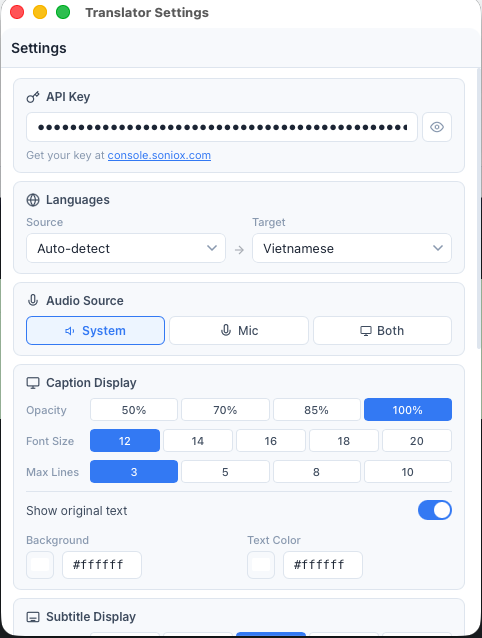
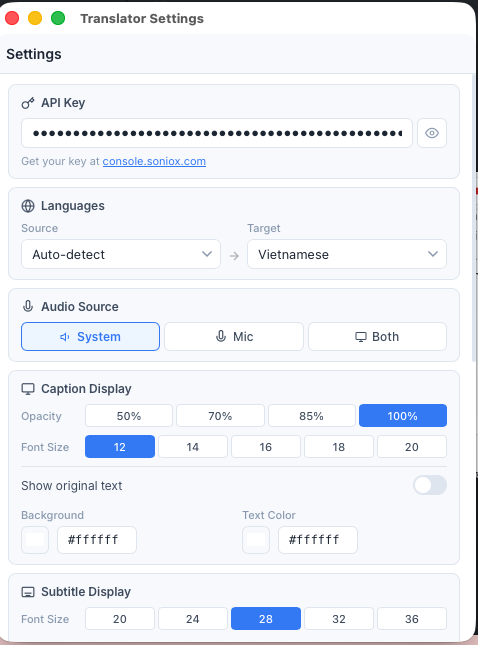
feat: remove max lines setting and update transcript handling for improved scrolling

diff --git a/src/components/settings-view.tsx b/src/components/settings-view.tsx
@@ -32,7 +32,6 @@ export function SettingsView({ settings, onSave, onToast }: SettingsViewProps) {
   const [audioSource, setAudioSource] = useState("system");
   const [opacity, setOpacity] = useState(85);
   const [fontSize, setFontSize] = useState(16);
-  const [maxLines, setMaxLines] = useState(5);
   const [showOriginal, setShowOriginal] = useState(true);
   const [bgColor, setBgColor] = useState("#1a1a2e");
   const [textColor, setTextColor] = useState("#ffffff");
@@ -54,7 +53,6 @@ export function SettingsView({ settings, onSave, onToast }: SettingsViewProps) {
     setAudioSource(settings.audio_source || "system");
     setOpacity(Math.round((settings.overlay_opacity || 0.85) * 100));
     setFontSize(settings.font_size || 16);
-    setMaxLines(settings.max_lines || 5);
     setShowOriginal(settings.show_original !== false);
     setBgColor(settings.background_color || "#1a1a2e");
     setTextColor(settings.text_color || "#ffffff");
@@ -77,7 +75,6 @@ export function SettingsView({ settings, onSave, onToast }: SettingsViewProps) {
       audio_source: audioSource,
       overlay_opacity: opacity / 100,
       font_size: fontSize,
-      max_lines: maxLines,
       show_original: showOriginal,
       background_color: bgColor,
       text_color: textColor,
@@ -235,16 +232,6 @@ export function SettingsView({ settings, onSave, onToast }: SettingsViewProps) {
               <div className="s-chip-row">
                 {[12, 14, 16, 18, 20].map((o) => (
                   <button key={o} className={`s-chip ${fontSize === o ? "s-chip--active" : ""}`} onClick={() => setFontSize(o)}>
-                    {o}
-                  </button>
-                ))}
-              </div>
-            </div>
-            <div className="s-display-item">
-              <span className="s-field-label">Max Lines</span>
-              <div className="s-chip-row">
-                {[3, 5, 8, 10].map((o) => (
-                  <button key={o} className={`s-chip ${maxLines === o ? "s-chip--active" : ""}`} onClick={() => setMaxLines(o)}>
                     {o}
                   </button>
                 ))}

diff --git a/src/components/transcript-display.tsx b/src/components/transcript-display.tsx
@@ -35,7 +35,6 @@ interface TranscriptDisplayProps {
   segments: TranscriptSegment[];
   provisionalText: string;
   fontSize: number;
-  maxLines: number;
   showOriginal: boolean;
   isListening: boolean;
   aiEnabled?: boolean;
@@ -46,7 +45,6 @@ export function TranscriptDisplay({
   segments,
   provisionalText,
   fontSize,
-  maxLines,
   showOriginal,
   isListening,
   aiEnabled,
@@ -146,8 +144,7 @@ export function TranscriptDisplay({
       );
     }
 
-    const allBlocks = buildSpeakerBlocks(segments);
-    const blocks = maxLines > 0 ? allBlocks.slice(-maxLines) : allBlocks;
+    const blocks = buildSpeakerBlocks(segments);
 
     return (
       <div ref={scrollRef} className="transcript-scroll">

diff --git a/src/components/overlay-view.tsx b/src/components/overlay-view.tsx
@@ -14,7 +14,6 @@ interface OverlayViewProps {
   provisionalText: string;
   fontSize: number;
   opacity: number;
-  maxLines: number;
   showOriginal: boolean;
   backgroundColor: string;
   textColor: string;
@@ -45,7 +44,6 @@ export function OverlayView({
   provisionalText,
   fontSize,
   opacity,
-  maxLines,
   showOriginal,
   backgroundColor,
   textColor,
@@ -89,7 +87,6 @@ export function OverlayView({
           segments={segments}
           provisionalText={provisionalText}
           fontSize={fontSize}
-          maxLines={maxLines}
           showOriginal={showOriginal}
           isListening={isRunning && segments.length === 0 && !provisionalText}
           aiEnabled={aiEnabled}

diff --git a/src/types/settings.ts b/src/types/settings.ts
@@ -10,7 +10,6 @@ export interface Settings {
   audio_source: string;
   overlay_opacity: number;
   font_size: number;
-  max_lines: number;
   show_original: boolean;
   custom_context: CustomContext | null;
   subtitle_mode: boolean;
@@ -32,7 +31,6 @@ export const DEFAULT_SETTINGS: Settings = {
   audio_source: "system",
   overlay_opacity: 0.85,
   font_size: 16,
-  max_lines: 5,
   show_original: true,
   custom_context: null,
   subtitle_mode: false,

diff --git a/src/App.tsx b/src/App.tsx
@@ -261,7 +261,6 @@ export default function App() {
           provisionalText={soniox.provisionalText}
           fontSize={settings.font_size}
           opacity={settings.overlay_opacity}
-          maxLines={settings.max_lines}
           showOriginal={settings.show_original}
           backgroundColor={settings.background_color}
           textColor={settings.text_color}

diff --git a/src/caption-app.tsx b/src/caption-app.tsx
@@ -306,7 +306,6 @@ export function CaptionApp() {
         provisionalText={soniox.provisionalText}
         fontSize={settings.font_size}
         opacity={settings.overlay_opacity}
-        maxLines={settings.max_lines}
         showOriginal={settings.show_original}
         backgroundColor={settings.background_color}
         textColor={settings.text_color}

diff --git a/README.md b/README.md
@@ -31,7 +31,7 @@ Real-time speech translation app for macOS. Captures system audio or microphone 
 - Draggable toolbar with playback controls
 - Customizable font size, opacity, background color, text color
 - Show/hide original text alongside translation
-- Configurable max visible lines
+- Scrollable transcript history with auto-scroll to latest
 
 ### Subtitle Overlay (Netflix-style)
 - Transparent overlay at the bottom of the screen
